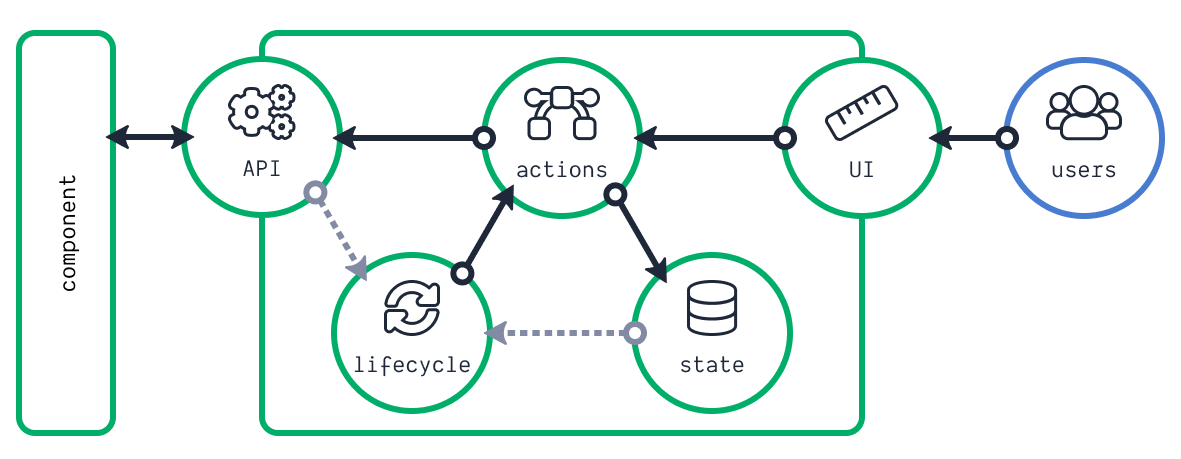
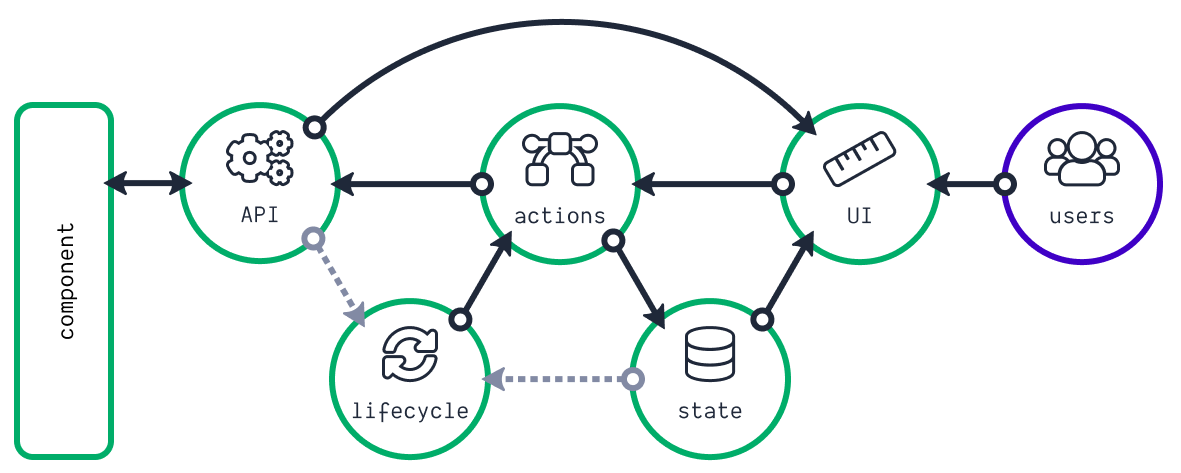
small updates to a diagram and the components anatomy to have a cross share with the flux pattern

Changed region(s): [[0.0, 0.0305, 1.0, 0.976], [0.884, 0.122, 0.945, 0.1525]]

diff --git a/src/pages/blog/ui-component-anatomy.md b/src/pages/blog/ui-component-anatomy.md
@@ -13,7 +13,7 @@ tags:
   - architecture
 ---
 
-In complex applications, UI components consist of more building blocks than some state and UI. Before I already [described](/blog/interfacing-your-ui-components/) a different way to look at our reusable UI components. We can look at them from developers' and users' perspectives at the same time. But on a conceptual level, components have more elements important to their behavior. It is important for developers to understand these concepts. Especially when working on big, complex and critical applications. We have to dive into the anatomy of a UI component.
+In complex applications, UI components consist of more building blocks than some state and UI. Before I already [described](/blog/interfacing-your-ui-components/) a different way to look at our reusable UI components. We can look at them from developers' and users' perspectives at the same time. But on a conceptual level, components have more elements important to their behavior. It is important for developers to understand these concepts. Especially when working on big, complex and critical applications. By having an uniform way of looking at a component, we create the 'UI component anatomy'. Those familiar with the [flux-pattern](https://facebook.github.io/flux/docs/in-depth-overview/) can this pattern coming back as well in the anatomy.
 
 ![The UI component anatomy](/img/architecture-component-detailed.png 'The UI component anatomy')
 
@@ -29,7 +29,7 @@ But what about the developers? The API of our components, better known as _props
 - **Data**: data often lives higher in the component tree. These interfaces allow data to be present and used in our component. These flows are uni-directional. An example is the `value` property;
 - **Actions**: sometimes we need to invoke changes higher in the component tree. This requires callback functions to pass through the API. An example is the `onChange` property.
 
-_Note: to be in line with modern frameworks, I both use the terms properties and API_
+_Note: to be in line with modern frameworks, I both use the terms props/properties and API_
 
 ## State
 
@@ -136,4 +136,4 @@ function MyModal ({ value }) {
 
 ## Conclusion
 
-When building our components, we can use various building blocks that work together. On both ends, we have interfaces for different audiences. We allow developers to interact with our UI components and change their behavior. On the other side, we have users interacting with our components. Different elements inside a component link these two interfaces together.
+When building our components, we can use various building blocks that work together. On both ends, we have interfaces for different audiences. We allow developers to interact with our UI components and change their behavior. On the other side, we have users interacting with our components. Different elements inside a component link these two interfaces together. By using a uniform structure for our components with established patterns, we can create realiable and maintainable UIs.

diff --git a/src/pages/blog/scalable-front-end-architecture.md b/src/pages/blog/scalable-front-end-architecture.md
@@ -38,13 +38,13 @@ src/
 ├── components/
 ├── config/
 ├── core/
-├── lib/
+├── utils/
 ├── modules/
 └── styles/
 
 ```
 
-The remaining directories hold our static `assets` (e.g. images), configuration files in `config` (e.g. one for development and one for production), or helper functions in `lib`. These can differ from simple utility functions to complex auto-layout logic for graphs, or even hold generic React Hooks. Finally, we have a `styles` directory. Many prefer something like `CSS-in-JS` or [styled-components](https://www.styled-components.com/). I prefer a solid CSS architecture, such as [Harry Roberts' ITCSS](https://csswizardry.com/2018/11/itcss-and-skillshare/), that follows the SoC mindset of the architecture.
+The remaining directories hold our static `assets` (e.g. images), configuration files in `config` (e.g. one for development and one for production), or helper functions in `utils`. These can differ from simple utility functions to complex auto-layout logic for graphs, or even hold generic React Hooks. Finally, we have a `styles` directory. Many prefer something like `CSS-in-JS` or [styled-components](https://www.styled-components.com/). I prefer a solid CSS architecture, such as [Harry Roberts' ITCSS](https://csswizardry.com/2018/11/itcss-and-skillshare/), that follows the SoC mindset of the architecture.
 
 The above does not look like something special. This is a standard modular approach for development. But, by zooming in on a module and the core layer, the architecture shines. Below I zoomed in on the core layer and a single module. In the rest of this blog post, I discuss each of the different topics and the ideas behind them. The dotted connections are optional connections that you can use when you want a less complex architecture. In this case, the pub/sub and workers are removed from the architecture and actions directly talk o the stores and API clients.
 
